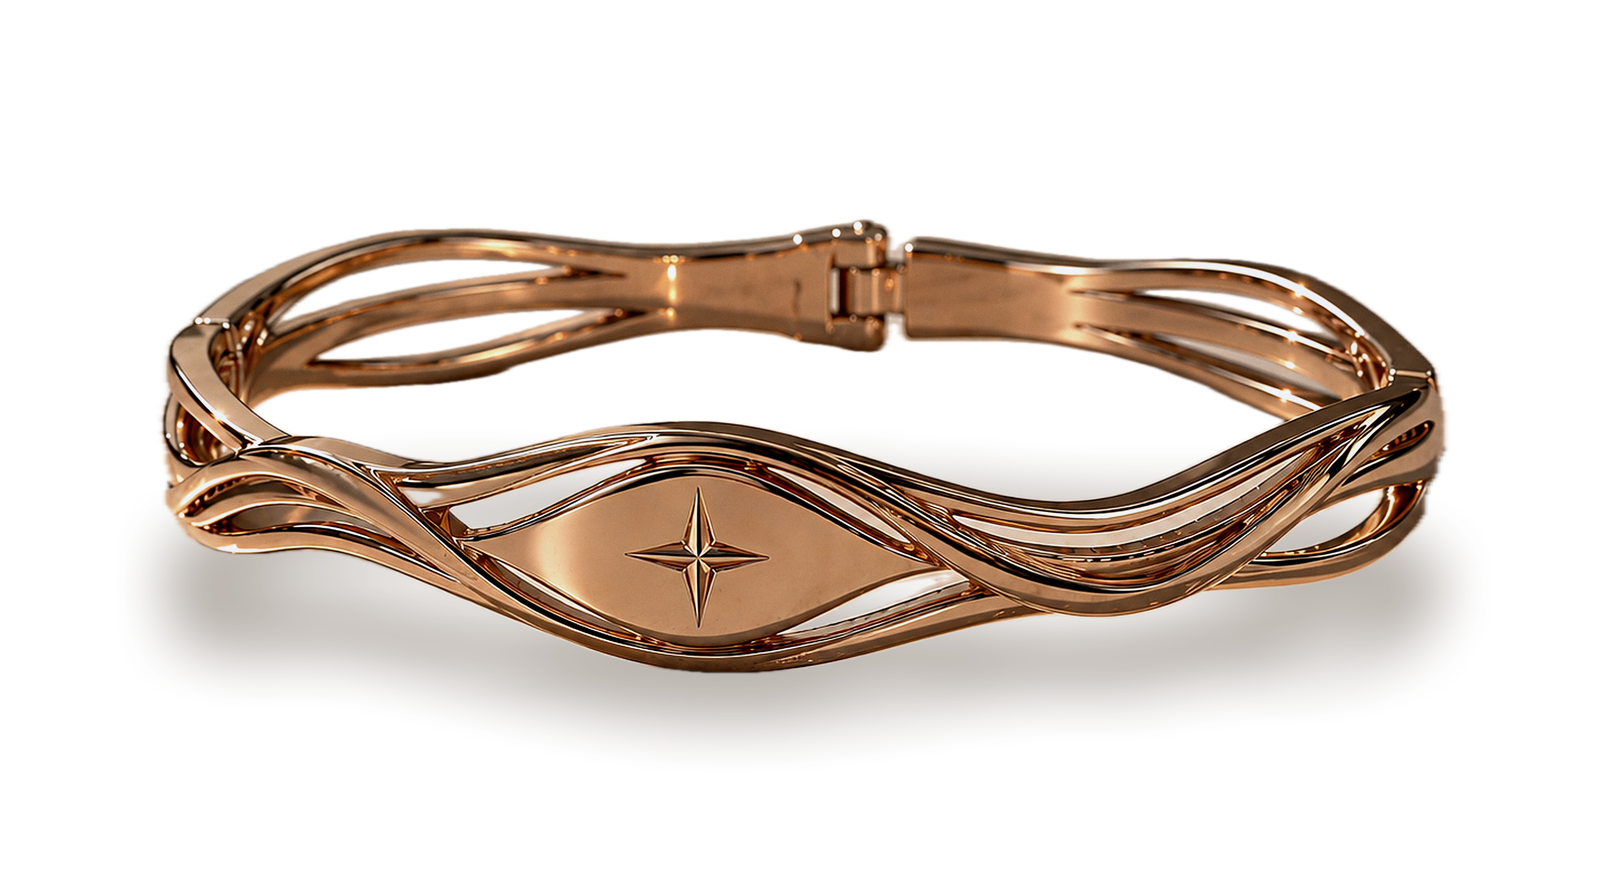
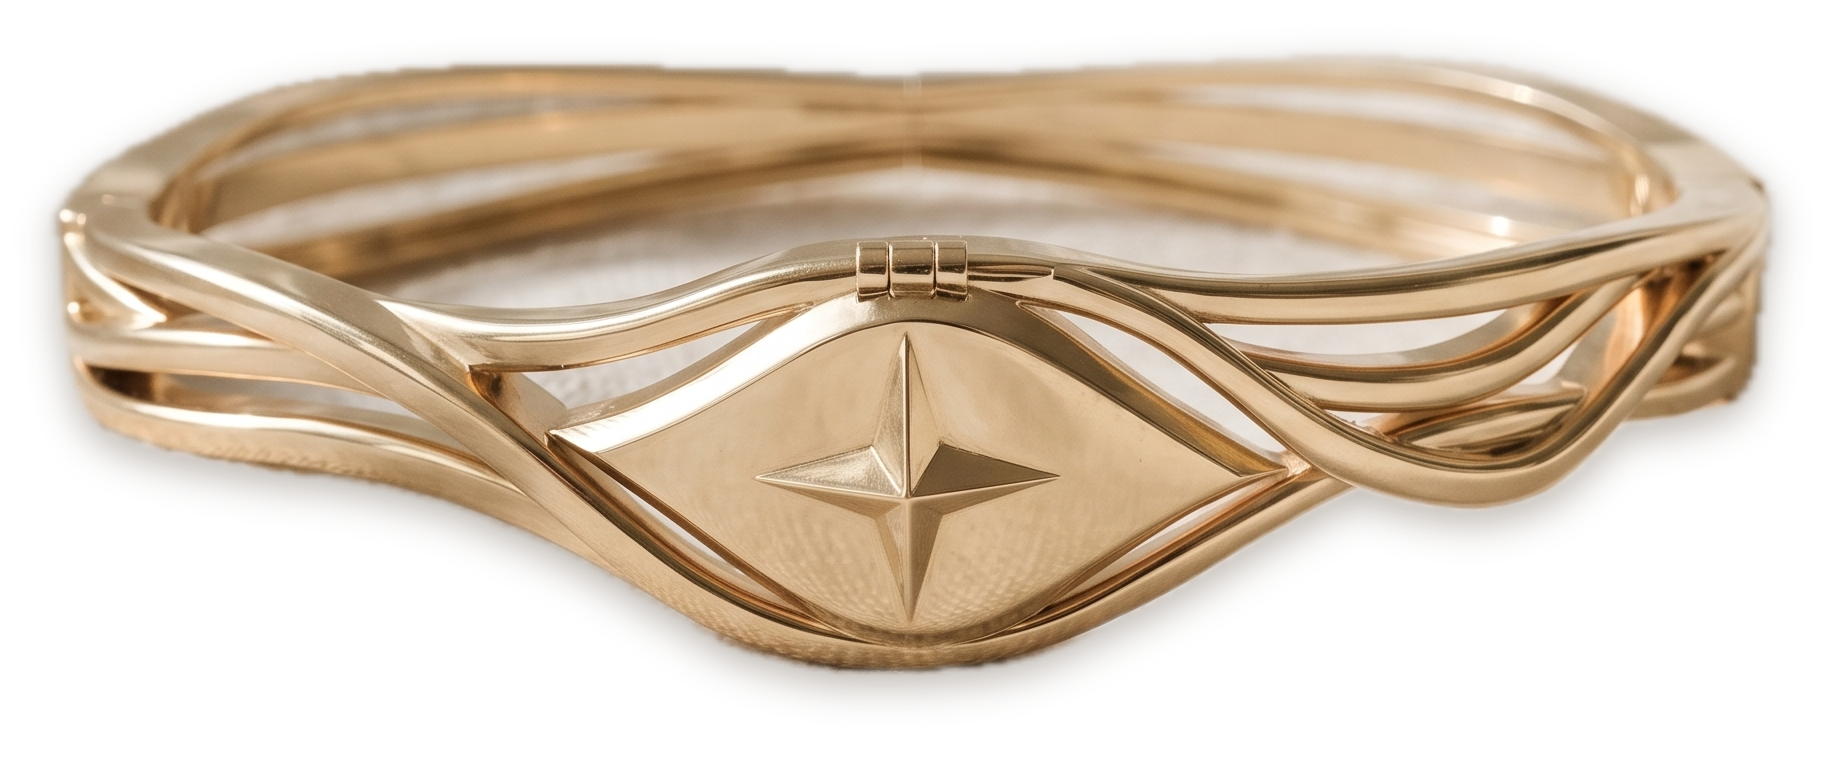
New product photos for the Wave and the Flow; hide stone photos
Linen photographs made from the CAD renders, cropped to each frame on the site.
Stone-set photos show an earlier form of the bracelets, so they are hidden until
real ones exist. The pair of bracelets is the new link preview image.

diff --git a/src/data/media.ts b/src/data/media.ts
@@ -67,9 +67,11 @@ type StoneKey = "sapphire" | "ruby" | "emerald" | "amethyst" | "diamond";
 
 /* Pixel sizes of each model's files (the source photographs differ in size). */
 const SIZES = {
-  wave: { piece: [2400, 1340], eye: [960, 904], wide: [1403, 766], curve: [1007, 948], hinge: [1007, 615], gemEye: [1792, 1344], gemDetail: [1541, 1156] },
-  flow: { piece: [2400, 1600], eye: [1200, 1130], wide: [1809, 987], curve: [922, 868], hinge: [922, 563], gemEye: [1571, 1178], gemDetail: [1352, 1014] },
+  wave: { campaignH: 1333, piece: [2400, 1600], eye: [1800, 1695], wide: [2274, 1241], curve: [2240, 1792], hinge: [2172, 1328], gemEye: [1792, 1344], gemDetail: [1541, 1156] },
+  flow: { campaignH: 1333, piece: [2400, 1600], eye: [1800, 1695], wide: [2400, 1310], curve: [2240, 1792], hinge: [2319, 1417], gemEye: [1571, 1178], gemDetail: [1352, 1014] },
 } as const;
+
+const SHOW_STONE_PHOTOS = false;
 
 const STONES = [
   ["ruby", "rubies"],
@@ -89,7 +91,9 @@ function bracelet(key: keyof typeof SIZES, name: string, metal: string, eye: { x
   const s = SIZES[key];
   const stonePhotos: BraceletMedia["stonePhotos"] = {};
   const stonePortraits: BraceletMedia["stonePortraits"] = {};
-  for (const [k, plural] of STONES) {
+  // Stone-set photographs are hidden until real photos of the final pieces exist:
+  // the old ones show an earlier form of the bracelets. Flip SHOW_STONE_PHOTOS to bring them back.
+  if (SHOW_STONE_PHOTOS) for (const [k, plural] of STONES) {
     stonePhotos[k] = [
       img(`${p}/${k}-piece.jpg`, 2400, 1600, `${name} in ${metal}, set with ${plural}, on marble`, "50% 50%"),
       img(`${p}/${k}-eye.jpg`, s.gemEye[0], s.gemEye[1], `The eye of ${name} — a ${k} in the star, ${plural} either side`),
@@ -99,10 +103,10 @@ function bracelet(key: keyof typeof SIZES, name: string, metal: string, eye: { x
   }
   return {
     plate: { ...img(`${p}/plate-cut.png`, 1605, 891, `${name} in ${metal}`), eye },
-    hero: img(`${p}/campaign.jpg`, 2400, 1332, `${name} in ${metal} on marble, in window light`, "50% 50%"),
+    hero: img(`${p}/campaign.jpg`, 2400, s.campaignH, `${name} in ${metal} on linen, in window light`, "50% 50%"),
     studio: img(`${p}/piece.jpg`, s.piece[0], s.piece[1], `${name} in ${metal}, the OZARA eye at its centre`, "50% 50%"),
     eyeMacro: img(`${p}/eye.jpg`, s.eye[0], s.eye[1], `Close-up of the OZARA eye on ${name}`),
-    curveMacro: img(`${p}/curve.jpg`, s.curve[0], s.curve[1], `The band of ${name}, where it crosses and turns`),
+    curveMacro: img(`${p}/curve.jpg`, s.curve[0], s.curve[1], `${name}, seen from the side of its band`),
     hinge: img(`${p}/hinge-detail.jpg`, s.hinge[0], s.hinge[1], `The hinge of ${name}`),
     nfcEye: img(`${p}/eye-wide.jpg`, s.wide[0], s.wide[1], `The eye of ${name}, where the bracelet meets your phone`, "50% 50%"),
     portrait: img(`${p}/portrait.jpg`, 1400, 1750, `${name} in ${metal}`, "50% 55%"),
@@ -113,13 +117,13 @@ function bracelet(key: keyof typeof SIZES, name: string, metal: string, eye: { x
 }
 
 export const collectionMedia = {
-  wave: bracelet("wave", "The Wave", "gold", { x: 43.2, y: 61.6 }),
-  flow: bracelet("flow", "The Flow", "silver", { x: 46.6, y: 67 }),
+  wave: bracelet("wave", "The Wave", "gold", { x: 49.6, y: 61.4 }, { plate: { src: "/media/collection/wave/plate-cut.png", width: 1826, height: 765, alt: "The Wave in gold", eye: { x: 49.6, y: 61.4 } } }),
+  flow: bracelet("flow", "The Flow", "silver", { x: 49.5, y: 63.8 }, { plate: { src: "/media/collection/flow/plate-cut.png", width: 1935, height: 765, alt: "The Flow in silver", eye: { x: 49.5, y: 63.8 } } }),
 };
 
 /* Diamond: photographed for the Flow (Oct 2026). The Wave's
    diamond photograph shows an earlier form of the piece, so it is not used. */
-collectionMedia.flow.stonePhotos.diamond = [
+if (SHOW_STONE_PHOTOS) collectionMedia.flow.stonePhotos.diamond = [
   img("/media/collection/flow/diamond-piece.jpg", 1536, 1024, "The Flow with diamonds, on marble in soft light", "50% 55%"),
   img("/media/collection/flow/diamond-eye.jpg", 1536, 1024, "The eye of The Flow, a diamond in the star and diamonds either side"),
   img("/media/collection/flow/diamond-detail.jpg", 1400, 985, "The eye and diamonds of The Flow, seen at an angle"),

diff --git a/src/components/home/Worn.tsx b/src/components/home/Worn.tsx
@@ -1,15 +1,14 @@
 "use client";
 
 import Link from "next/link";
-import { GEMS, products, productHref, type GemKey } from "@/data/products";
+import { products, productHref } from "@/data/products";
 import { copy } from "@/content/copy";
 import { Photo } from "@/components/ui/Photo";
 import { MaskReveal } from "@/components/ui/MaskReveal";
 import { RevealText } from "@/components/ui/RevealText";
 import { Reveal } from "@/components/ui/Reveal";
 
-/** The two, each set with a different stone — at different heights, like prints pinned to a wall. */
-const STONE: Record<string, GemKey> = { wave: "ruby", flow: "sapphire" };
+/** The two, at different heights, like prints pinned to a wall. */
 
 export function Worn() {
   const c = copy.worn;
@@ -25,16 +24,15 @@ export function Worn() {
         </div>
         <ul className="mt-16 grid grid-cols-2 lg:grid-cols-12 gap-x-4 gap-y-12 lg:gap-x-8">
           {products.map((p, i) => {
-            const stone = STONE[p.key];
-            const image = p.media.stonePortraits[stone as keyof typeof p.media.stonePortraits] ?? p.media.portrait;
+            const image = p.media.portrait;
             return (
             <li key={p.id} className={`${["lg:col-span-4 lg:col-start-2", "lg:col-span-5 lg:col-start-7"][i]} ${offsets[i]}`}>
-              <Link href={`${productHref(p)}?stone=${stone}`} className="group block">
+              <Link href={productHref(p)} className="group block">
                 <MaskReveal className="relative aspect-[4/5]" delay={i * 0.12} duration={1.6}>
                   <Photo image={image} parallax={7} className="absolute inset-0 transition-transform duration-[1400ms] ease-[var(--ease-lux)] group-hover:scale-[1.03]" sizes="(min-width:1024px) 28vw, 50vw" />
                 </MaskReveal>
                 <p className="t-name text-[0.85rem] mt-5">{p.name}</p>
-                <p className="t-eyebrow !text-[12px] mt-2">With {GEMS.find((g) => g.key === stone)!.name.toLowerCase()}</p>
+                <p className="t-eyebrow !text-[12px] mt-2">{p.finish} plating</p>
               </Link>
             </li>
             );

diff --git a/src/app/layout.tsx b/src/app/layout.tsx
@@ -55,7 +55,7 @@ export const metadata: Metadata = {
     siteName: site.brand,
     title: `${site.brand} — ${site.tagline}`,
     description: site.description,
-    images: [{ url: "/media/collection/flow/campaign.jpg", width: 2400, height: 1332, alt: "The Flow, an OZARA bracelet in silver, on marble" }],
+    images: [{ url: "/media/share/pair.jpg", width: 1600, height: 838, alt: "The Wave in gold and the Flow in silver, OZARA bracelets, on linen" }],
   },
   twitter: { card: "summary_large_image" },
   alternates: { canonical: "/" },

diff --git a/src/components/home/Signature.tsx b/src/components/home/Signature.tsx
@@ -16,7 +16,7 @@ import { ease } from "@/lib/motion";
  */
 export function Signature() {
   const c = copy.signature;
-  const images = [collectionMedia.flow.eyeMacro, collectionMedia.wave.curveMacro, collectionMedia.wave.stonePhotos.amethyst![2]];
+  const images = [collectionMedia.flow.eyeMacro, collectionMedia.wave.curveMacro, collectionMedia.flow.hinge];
   return (
     <section aria-label={c.eyebrow} className="relative bg-linen section-pad overflow-hidden">
       <div className="shell">

diff --git a/src/components/home/Statement.tsx b/src/components/home/Statement.tsx
@@ -10,7 +10,7 @@ import { Photo } from "@/components/ui/Photo";
 import { collectionMedia } from "@/data/media";
 
 /** Wear: the piece. Tap: the Eye. Unlock: the stones. */
-const STEP_IMAGES = [collectionMedia.wave.portrait, collectionMedia.flow.eyeMacro, collectionMedia.flow.stonePortraits.sapphire!];
+const STEP_IMAGES = [collectionMedia.wave.portrait, collectionMedia.flow.eyeMacro, collectionMedia.flow.portrait];
 import { useReducedMotion } from "@/lib/hooks";
 
 /**

diff --git a/src/components/home/Access.tsx b/src/components/home/Access.tsx
@@ -13,7 +13,7 @@ import { RevealText } from "@/components/ui/RevealText";
  */
 export function Access() {
   const c = copy.access;
-  const eye = collectionMedia.wave.stonePhotos.sapphire![1];
+  const eye = collectionMedia.wave.eyeMacro;
   return (
     <section aria-label={c.eyebrow} data-theme="dark" className="relative bg-espresso theme-dark section-pad overflow-hidden">
       <div className="shell">

diff --git a/src/content/copy.ts b/src/content/copy.ts
@@ -146,7 +146,7 @@ export const copy = {
   },
 
   worn: {
-    eyebrow: "Set with stones",
+    eyebrow: "The collection",
     headline: ["Two designs.", "*One vision.*"],
   },
 
